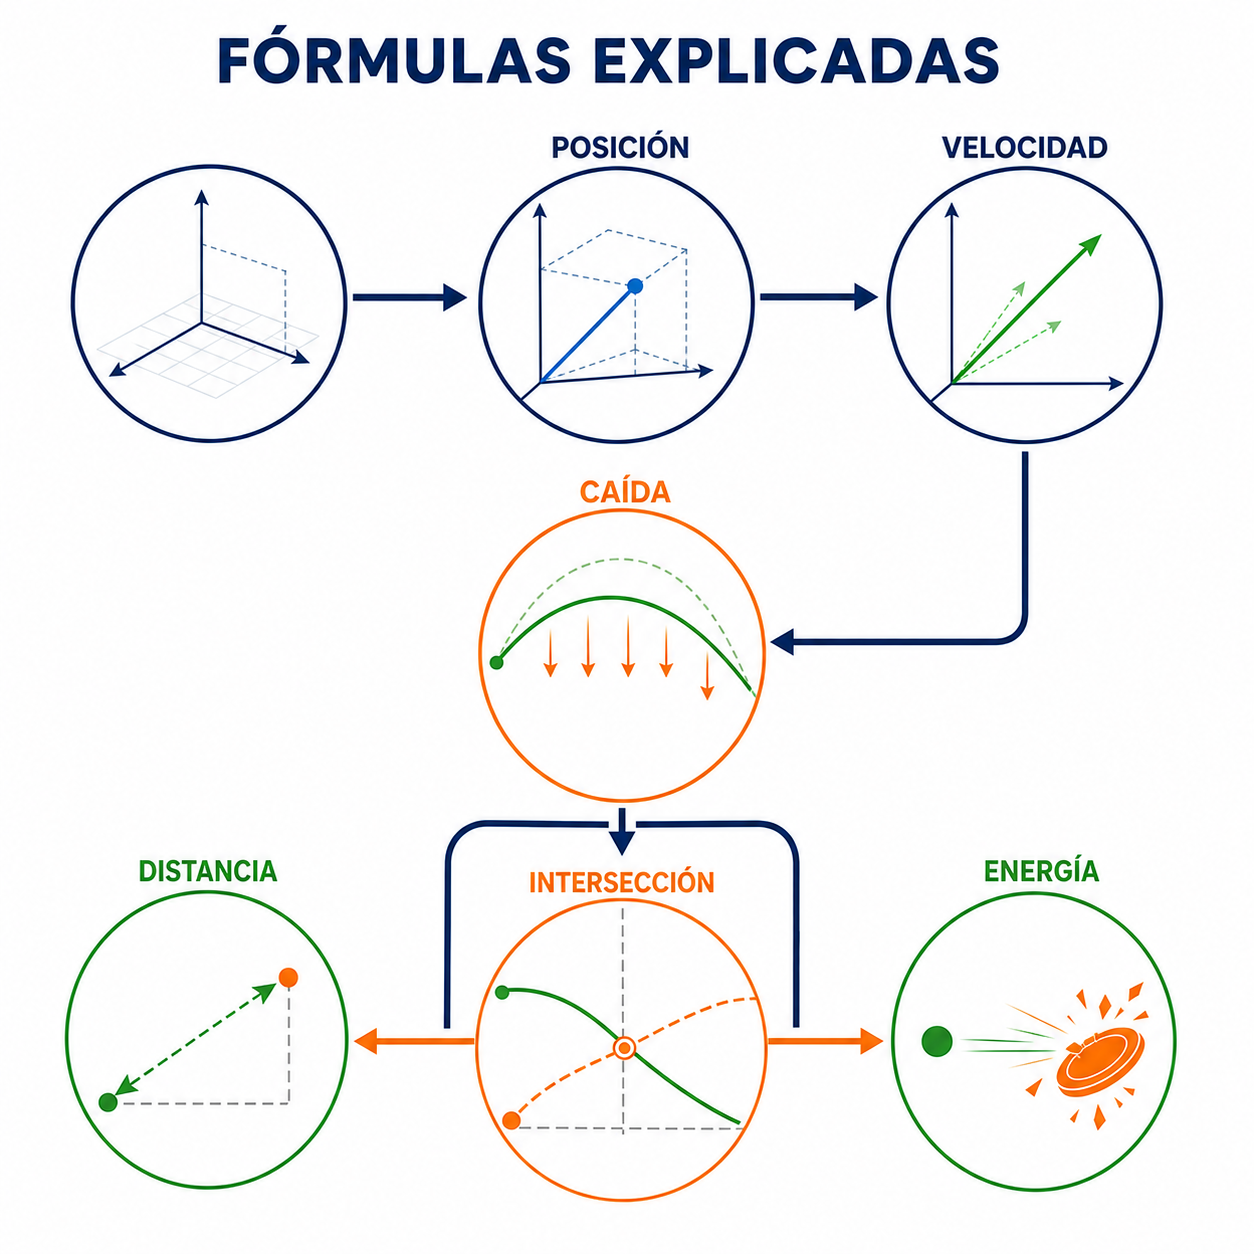
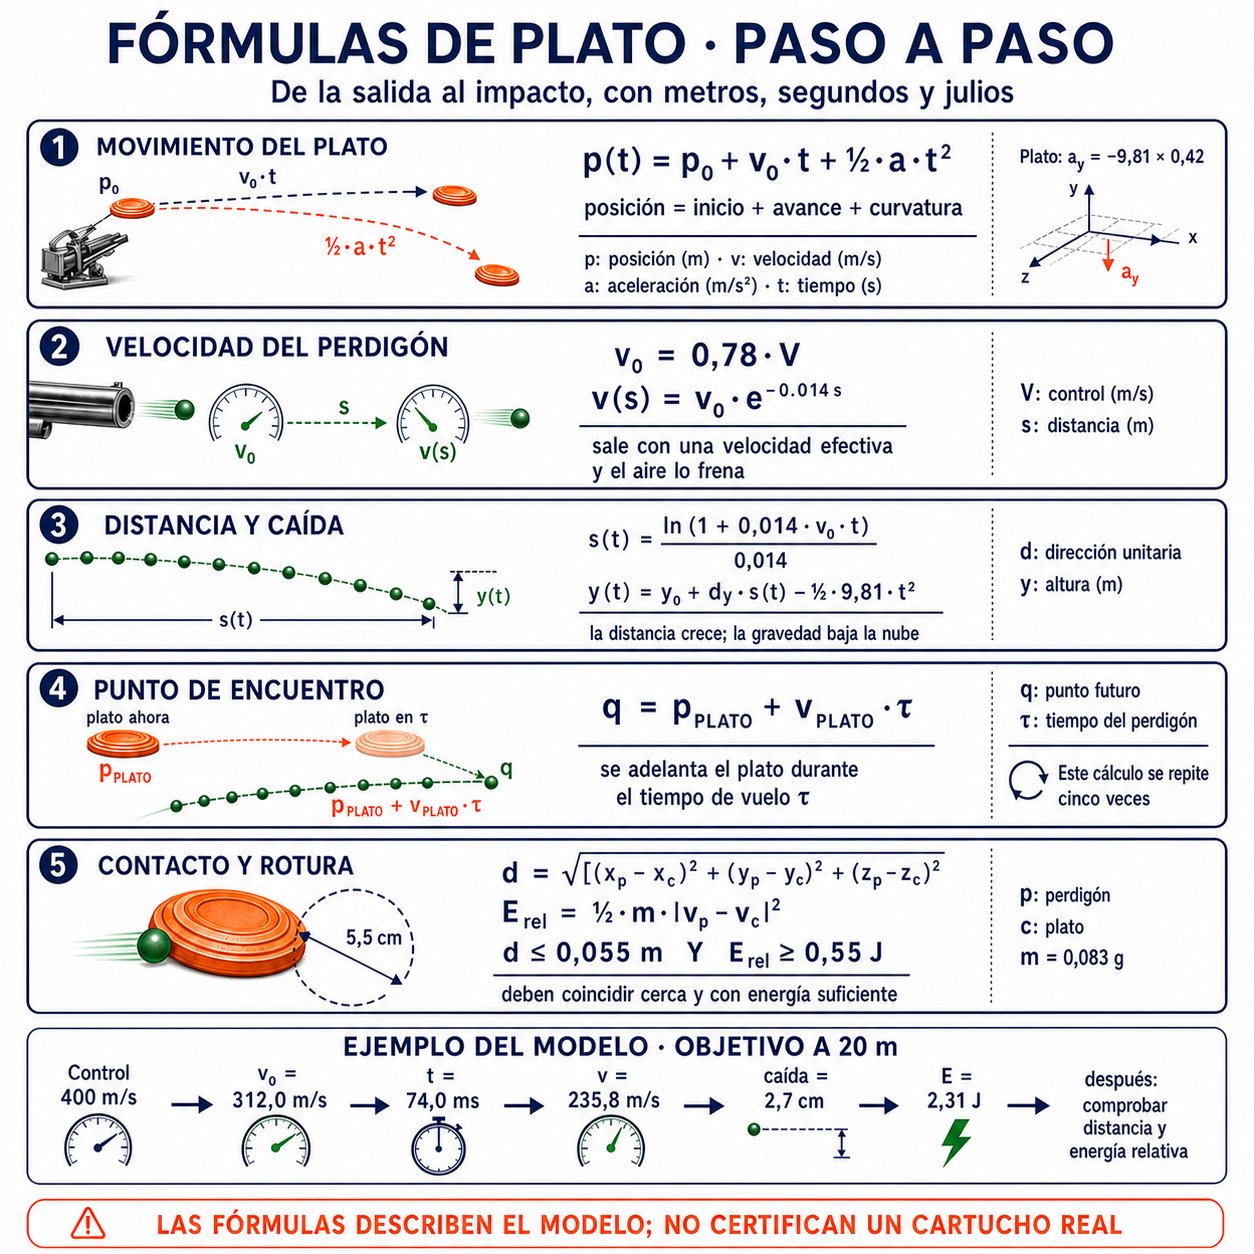
docs: explica las formulas del simulador

Changed region(s): [[0.0, 0.0, 0.9952, 1.0]]

diff --git a/index.html b/index.html
@@ -2252,8 +2252,8 @@
   <p class="section-bridge">Las pruebas automáticas comprueban que el programa es coherente y coincide con casos documentados, pero no certifican una cancha ni un cartucho real. Las fórmulas finales permiten revisar las relaciones que producen estos resultados.</p>
     <p class="section-lead"><strong>Las fórmulas de Plato responden a una secuencia sencilla.</strong> Primero se fija una posición y una velocidad. Después se deja avanzar el tiempo. Por último, se busca el encuentro y se comprueba si algún perdigón pasa lo bastante cerca y conserva suficiente energía.</p>
     <figure class="figure micro-figure">
-      <img loading="lazy" src="docs/manual-libro/assets/images/infografias/subapartados/09-16-formulas-explicadas.png" width="1254" height="1254" alt="Mapa de fórmulas de Plato desde parámetros de lanzamiento hasta trayectoria, intersección, distancia y energía de impacto">
-      <figcaption>Del parámetro a la trayectoria: las ecuaciones comparten metros, segundos y vectores, pero incorporan coeficientes pedagógicos que deben permanecer identificados.</figcaption>
+      <img loading="lazy" src="docs/manual-libro/assets/images/infografias/subapartados/09-16-formulas-explicadas.png" width="1254" height="1254" alt="Cinco fórmulas explicadas paso a paso para calcular el movimiento del plato, el frenado y caída del perdigón, el encuentro, el contacto y la energía de rotura">
+      <figcaption>La cadena se lee de arriba abajo: mover el plato, calcular el vuelo del perdigón, estimar el encuentro y comprobar distancia y energía. El ejemplo final aplica las fórmulas a un objetivo situado a 20 m.</figcaption>
     </figure>
     <p>Para el plato, la idea base es <code>posición = posición inicial + velocidad·tiempo + ½·aceleración·tiempo²</code>. En <code>z</code> no hay aceleración; en <code>y</code> la aceleración es <code>−9,81×0,42</code>; en <code>x</code> aparece <code>viento×0,28</code>. Las componentes iniciales salen de la rapidez horizontal y del ángulo: seno reparte hacia un lado y coseno hacia delante. La altura a 10 m y el punto de caída fijan la parábola antes de esa descomposición.</p>
     <p>Para un perdigón, la distancia no es <code>v·t</code> porque se introduce arrastre. Con <code>k = 0,014 m⁻¹</code>, <code>s(t)=ln(1+kv0t)/k</code> y <code>t(s)=(e<sup>ks</sup>−1)/(kv0)</code>. Su posición suma al ojo el vector de dirección multiplicado por esa distancia y resta <code>½·9,81·t²</code> en altura, usando la gravedad completa durante el tiempo local de vuelo de la partícula. La velocidad residual es <code>v=v0e<sup>−ks</sup></code> y la energía <code>E=½mv²</code>. El coeficiente <code>0,42</code> de la fórmula anterior pertenece al plato y no interviene en esta caída.</p>
